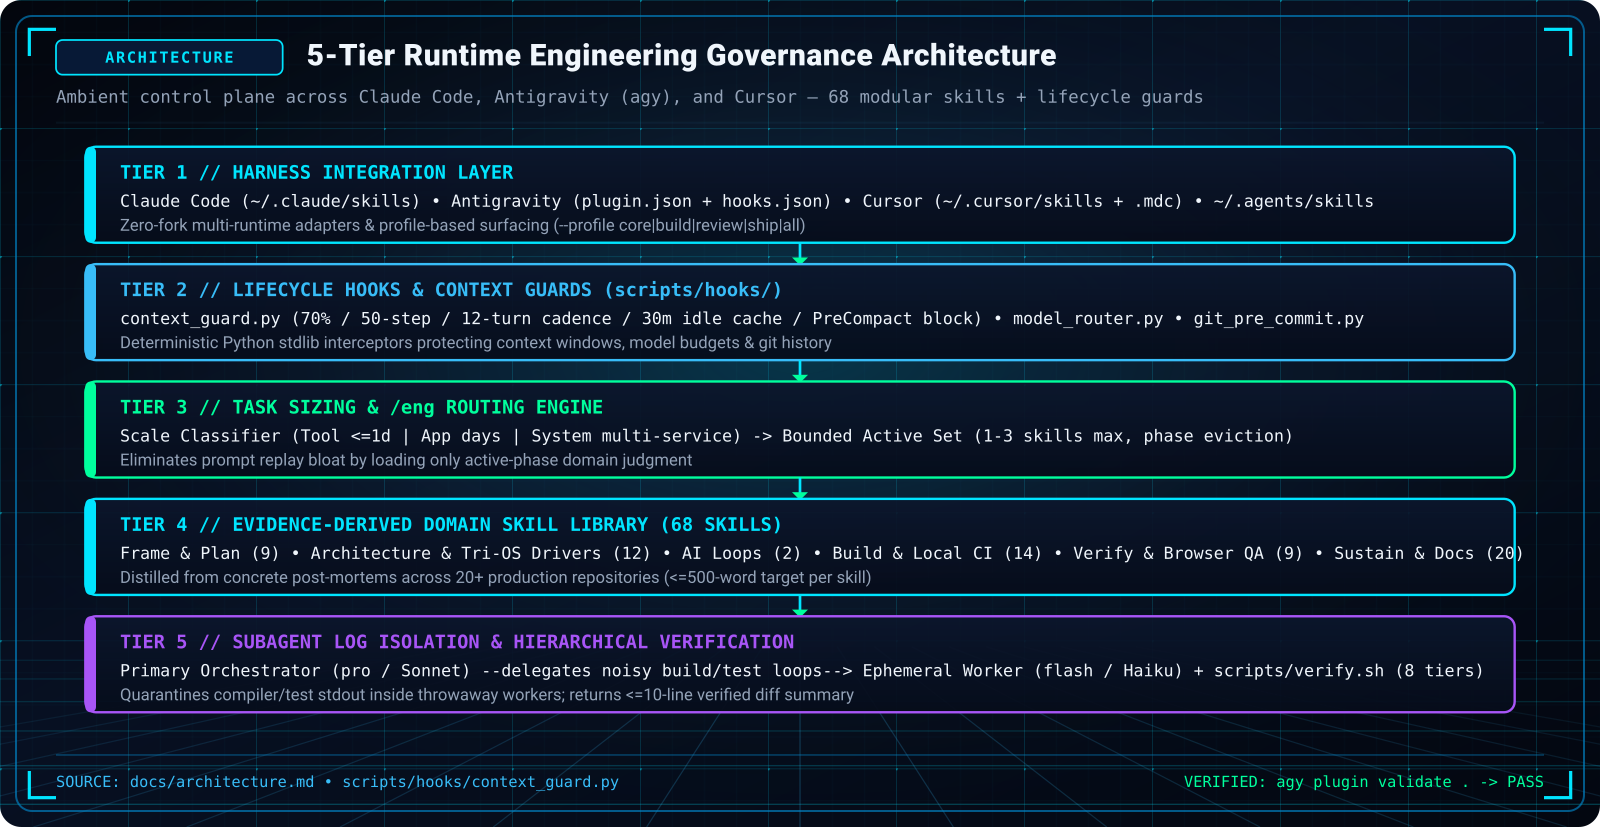
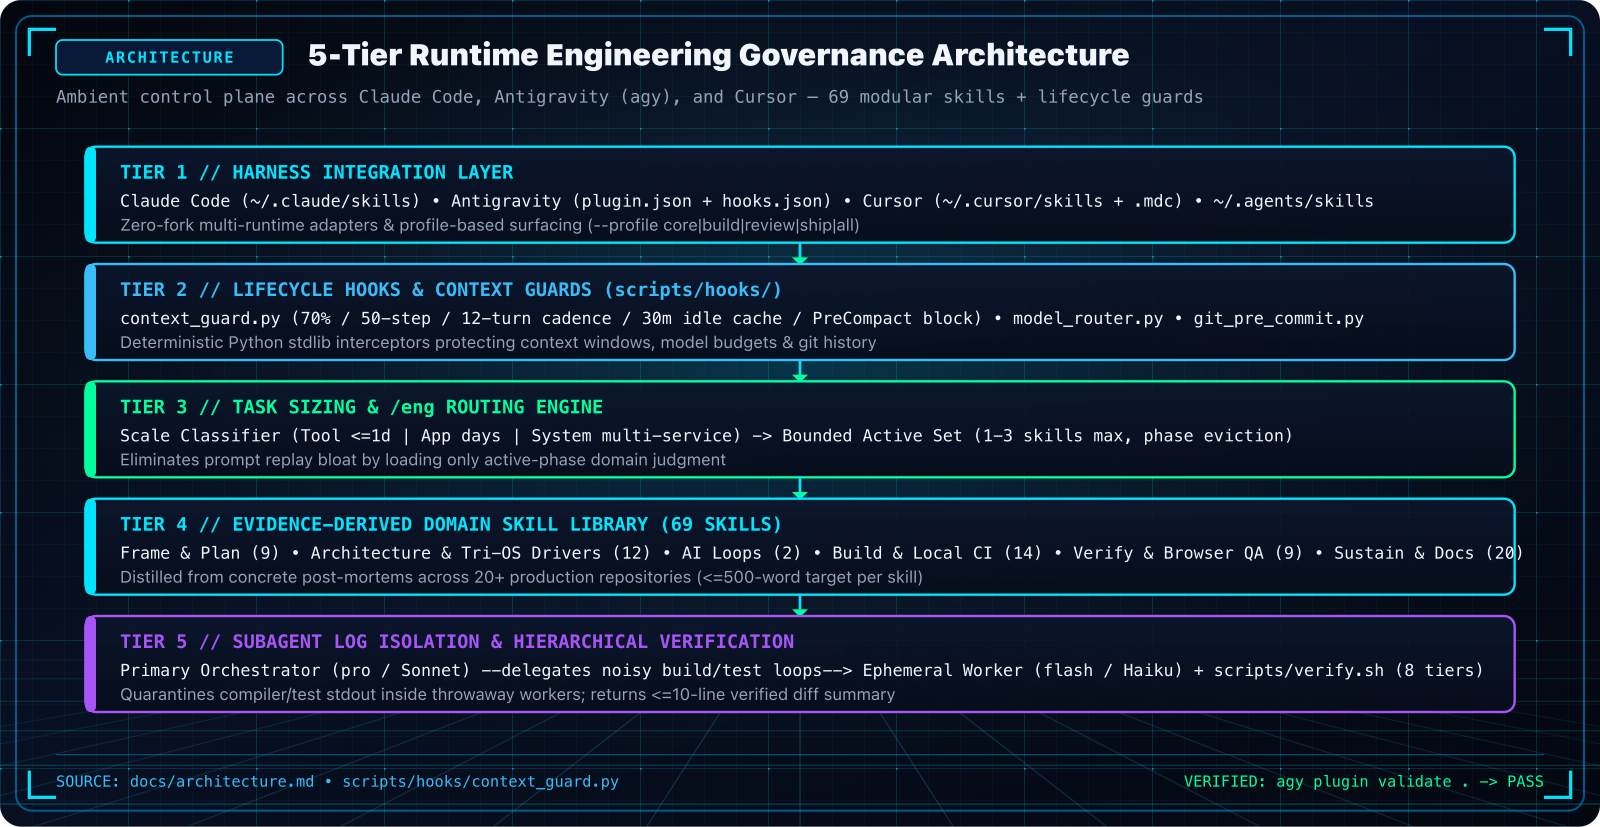
docs: regenerate graphics for 69 skills and note cross-platform rendering TODO
Regenerated with rsvg-convert 2.63.4 (macOS, Homebrew librsvg); only PNGs
whose SVG changed are included.

diff --git a/docs/development.md b/docs/development.md
@@ -13,6 +13,7 @@ How to work on **this repository** (the skill library itself). For using the ski
 - [Verification gates](#verification-gates)
 - [Documentation sync](#documentation-sync)
 - [Scripts and tests](#scripts-and-tests)
+- [Graphics rendering (cross-platform)](#graphics-rendering-cross-platform)
 - [Versioning and releases](#versioning-and-releases)
 - [Commits and pull requests](#commits-and-pull-requests)
 - [Portability and security](#portability-and-security)
@@ -105,6 +106,17 @@ Use relative links only. Mark old build logs and plans as historical.
 | `tests/` | `unittest` suites for hooks, router, shortcuts, graphics/pages, scenarios |
 
 Generators must be deterministic: identical input yields byte-identical output, so diffs stay quiet.
+
+## Graphics rendering (cross-platform)
+
+`scripts/render-graphics.py` writes SVGs, then converts them to PNG with the first converter it finds on `PATH`: `inkscape`, `rsvg-convert`, or `magick`. It aborts with "No SVG-to-PNG converter found" if none is installed.
+
+> **TODO: uniform rendering on Linux, macOS and Windows.** Different converters (and different font stacks) produce byte-different PNGs from the same SVG. Regenerating on one machine rewrites every committed PNG even when no SVG changed, which makes diffs noisy and the PNGs depend on whoever ran the script last. Before relying on PNGs as canonical, pick one pinned converter and font setup that works on all three platforms and document or enforce it (for example a fixed `rsvg-convert` version with bundled fonts, or a container image), and make the script choose it deterministically instead of taking the first match. Until then:
+
+- The SVGs are the source of truth; treat PNGs as derived.
+- After regenerating, commit only the PNGs whose SVG actually changed (`git status` shows which) and revert the rest with `git checkout -- <paths>`.
+- Record which converter and version produced the committed PNGs in the commit message. The current ones were produced with `rsvg-convert` 2.63.4 (macOS, Homebrew `librsvg`).
+- Install a converter with `brew install librsvg` (macOS), `apt install librsvg2-bin` (Debian/Ubuntu), or `choco install inkscape` (Windows).
 
 ## Versioning and releases
 
